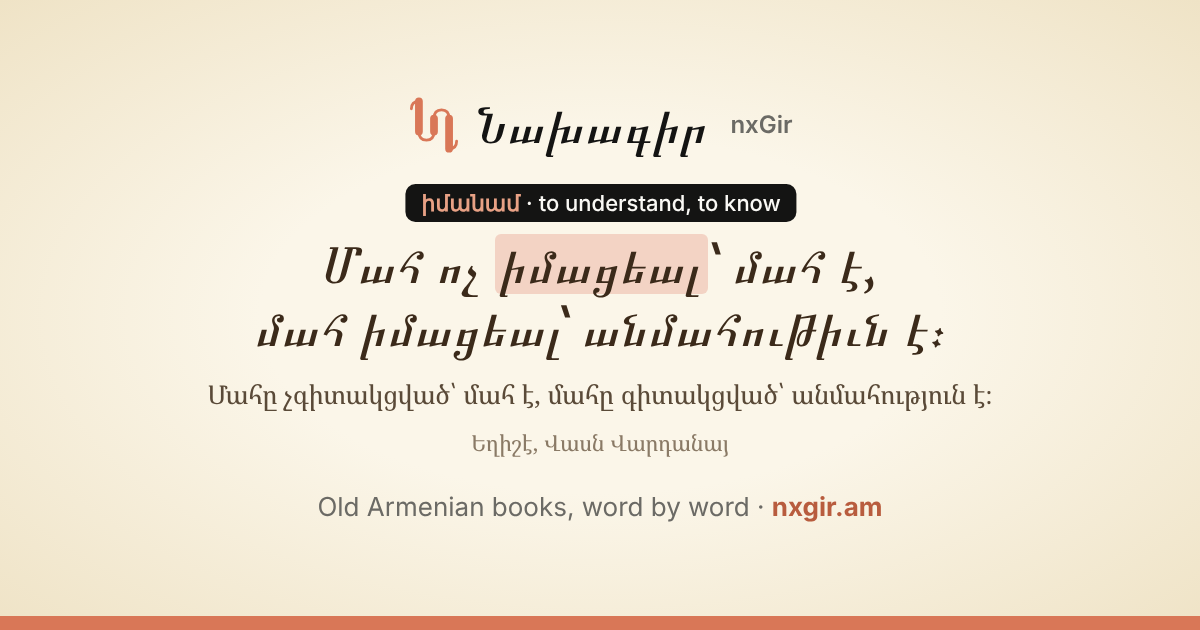
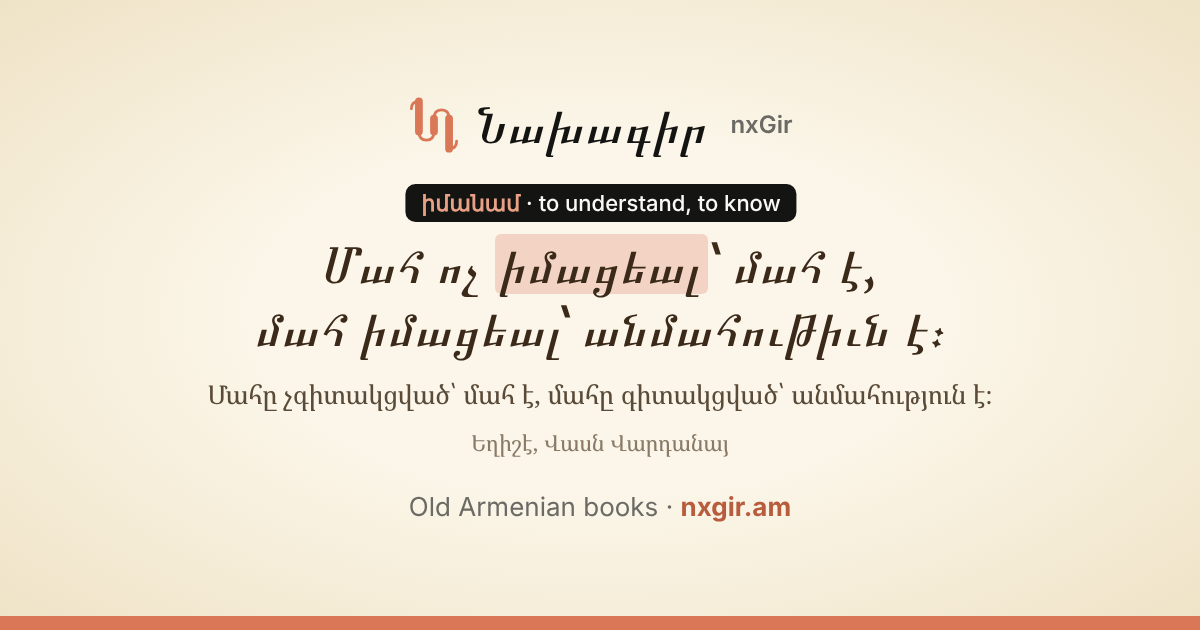
Link preview: no 'word by word'
Claude-Session: https://claude.ai/code/session_01Kh1C7TA5zgtKBSj2rCFaHD

Changed region(s): [[0.2467, 0.7841, 0.74, 0.8444]]

diff --git a/web/index.html b/web/index.html
@@ -23,7 +23,7 @@
   Armenian translations and tap-to-lookup word
   meanings.">
 <meta property="og:image"
-  content="https://nxgir.am/og-image.png?v=3">
+  content="https://nxgir.am/og-image.png?v=4">
 <meta property="og:url" content="https://nxgir.am">
 <meta property="og:type" content="website">
 <link rel="icon" href="icon.svg?v=2">

diff --git a/scripts/render-og.py b/scripts/render-og.py
@@ -139,8 +139,8 @@ understand, to know</span></mark>՝ մահ է,<br>
 <p class="modern">Մահը չգիտակցված՝ մահ է,
 մահը գիտակցված՝ անմահություն է։</p>
 <p class="who">Եղիշէ, Վասն Վարդանայ</p>
-<p class="foot" lang="en">Old Armenian books,
-word by word · <b>nxgir.am</b></p>
+<p class="foot" lang="en">Old Armenian books ·
+<b>nxgir.am</b></p>
 </body>
 </html>
 """
